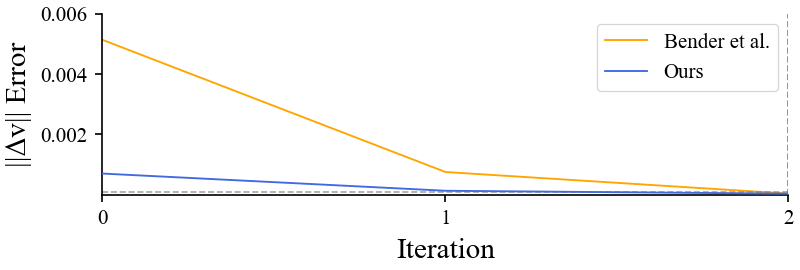
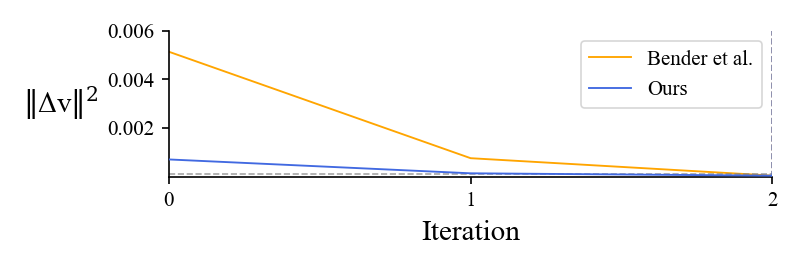
stat saved

diff --git a/plot_stats.py b/plot_stats.py
@@ -421,46 +421,42 @@ def plot_groups_overlay(
     def _maybe_print_max_error_diff():
         if _printed_error_diff["done"]:
             return
-        per_frame_max_arrays = []
+        per_frame_max_err_arrays = []
+        per_frame_iter_arrays = []
         min_frames = None
         for group, _label in pairs:
             if ("opt_error" in group) and ("opt_iter" in group):
                 try:
                     err = np.load(group["opt_error"]).astype(float)
                     itc = np.load(group["opt_iter"]).astype(int)
+                    per_frame_iter_arrays.append(itc)
                 except Exception:
                     continue
                 if itc.size == 0:
                     continue
                 cum = np.concatenate(([0], np.cumsum(itc)))
-                # compute max error per frame
-                frame_max = []
-                for f in range(itc.size):
-                    s_i, e_i = int(cum[f]), int(cum[f + 1])
-                    if e_i <= s_i:
-                        frame_max.append(0.0)
-                    else:
-                        frame_max.append(float(np.max(err[s_i:e_i])))
+                frame_max = [float(np.max(err[int(cum[f]):int(cum[f+1])])) if int(cum[f+1]) > int(cum[f]) else 0.0 for f in range(itc.size)]
                 arr = np.asarray(frame_max, dtype=float)
-                per_frame_max_arrays.append(arr)
+                per_frame_max_err_arrays.append(arr)
                 min_frames = arr.size if min_frames is None else min(min_frames, arr.size)
-        if len(per_frame_max_arrays) < 2 or not min_frames:
-            return
-        s = int(start) if (start is not None and int(start) >= 0) else 0
-        e = int(end) if (end is not None and int(end) >= 0) else min_frames
-        s = max(0, min(s, min_frames))
-        e = max(s, min(e, min_frames))
-        if e <= s:
-            return
-        best_idx = s
-        best_diff = -1.0
-        for i in range(s, e):
-            vals = [float(a[i]) for a in per_frame_max_arrays]
-            d = float(max(vals) - min(vals))
-            if d > best_diff:
-                best_diff = d
-                best_idx = i
-        print(best_idx)
+
+        if min_frames and len(per_frame_max_err_arrays) >= 2:
+            s = int(start) if (start is not None and int(start) >= 0) else 0
+            e = int(end) if (end is not None and int(end) >= 0) else min_frames
+            s, e = max(0, min(s, min_frames)), max(s, min(e, min_frames))
+
+            if e > s:
+                err_diffs = [abs(v[i] - per_frame_max_err_arrays[0][i]) for v in per_frame_max_err_arrays[1:] for i in range(s, e)]
+                if err_diffs:
+                    best_err_idx = s + np.argmax(err_diffs)
+                    print(f"Frame with max error difference: {best_err_idx}")
+
+                if len(per_frame_iter_arrays) >= 2:
+                    iter_diffs = [abs(v[i] - per_frame_iter_arrays[0][i]) for v in per_frame_iter_arrays[1:] for i in range(s, e)]
+                    if iter_diffs:
+                        best_iter_idx = s + np.argmax(iter_diffs)
+                        print(f"Frame with max iteration count difference: {best_iter_idx}")
+        
         _printed_error_diff["done"] = True
 
     # If we're in multi-mode, print once here
@@ -609,6 +605,7 @@ def plot_groups_overlay(
                 any_line = True
                 last_x = x_master
             ax.set_xlabel("Iteration")
+            ax.set_ylabel(r"$\|$Δv$\|^2$", rotation='horizontal', ha='right', va='center', x=-0.1)
 
             if any_line:
                 ax.margins(x=0)
@@ -635,7 +632,7 @@ def plot_groups_overlay(
             labels_txt = [_legend_text_for_label(l) for l in labels_txt]
             leg = ax.legend(handles, labels_txt, loc="best")
             if leg is not None:
-                leg.get_frame().set_linewidth(0.6)
+                leg.get_frame().set_linewidth(0.8)
             ax.spines["top"].set_visible(False)
             ax.spines["right"].set_visible(False)
             return
@@ -819,23 +816,18 @@ def plot_groups_overlay(
                 if global_x_max is None or x_plot[-1] > global_x_max:
                     global_x_max = x_plot[-1]
         
-        # Axis labels (move title to y-label)
-        if key in ("elapsed_time_ms", "opt_iter", "pcg_iter", "opt_error", "pcg_error"):
-            ax.set_xlabel("time (s)")
-        elif key == "iter_decay":
-            ax.set_xlabel("iteration")
-        else:
-            ax.set_xlabel(_xlabel_for_key(key))
+        # Axis labels for keys other than iter_decay and avg_iter_vs_dt
+        if key not in ("iter_decay", "avg_iter_vs_dt"):
+            if key in ("elapsed_time_ms", "opt_iter", "pcg_iter", "opt_error", "pcg_error"):
+                ax.set_xlabel("time (s)")
+            else:
+                ax.set_xlabel(_xlabel_for_key(key))
 
-        ylabel_kwargs = {}
-        if key not in ("opt_iter", "pcg_iter", "elapsed_time_ms"):
-             ylabel_kwargs = {'rotation': 'horizontal', 'ha': 'right', 'va': 'center', 'x': -0.1}
-        
-        if key == "iter_decay":
-            ax.set_ylabel("$\|$Δv$\|^2$", **ylabel_kwargs)
-        else:
+            ylabel_kwargs = {}
+            if key not in ("opt_iter", "pcg_iter", "elapsed_time_ms"):
+                ylabel_kwargs = {'rotation': 'horizontal', 'ha': 'right', 'va': 'center', 'x': -0.1}
             ax.set_ylabel(_ylabel_for_key(key), **ylabel_kwargs)
-
+        
         # Align x-range to plotted data only
         if any_line and global_x_min is not None and global_x_max is not None:
             ax.set_xlim(left=float(global_x_min), right=float(global_x_max))
@@ -895,12 +887,13 @@ def plot_groups_overlay(
             )
         base_no_ext, ext = os.path.splitext(base_out)
         for key in selected_keys:
-            fig, ax = plt.subplots(nrows=1, ncols=1, figsize=(single_col_w, row_h), constrained_layout=True)
+            fig, ax = plt.subplots(nrows=1, ncols=1, figsize=(single_col_w, row_h), constrained_layout=False)
             if title_text:
                 fig.suptitle(title_text)
             _plot_one_key(ax, key)
             out_key = f"{base_no_ext}-{key}{ext or '.png'}"
             os.makedirs(os.path.dirname(out_key), exist_ok=True)
+            fig.tight_layout(pad=0.3)
             fig.savefig(out_key, dpi=150)
             print(f"Saved figure to {out_key}")
             if show:
@@ -915,7 +908,7 @@ def plot_groups_overlay(
     multi_row_h = 2.2
     width_inch = single_col_w if not ((not separate_figs) and (nrows > 1)) else multi_w_inch
     row_h_eff = row_h if not ((not separate_figs) and (nrows > 1)) else multi_row_h
-    fig, axes = plt.subplots(nrows=nrows, ncols=1, figsize=(width_inch, max(row_h_eff, 0.9 * nrows + 0.9)), constrained_layout=True)
+    fig, axes = plt.subplots(nrows=nrows, ncols=1, figsize=(width_inch, max(row_h_eff, 0.9 * nrows + 0.9)), constrained_layout=False)
     if title_text:
         fig.suptitle(title_text)
     if nrows == 1:
